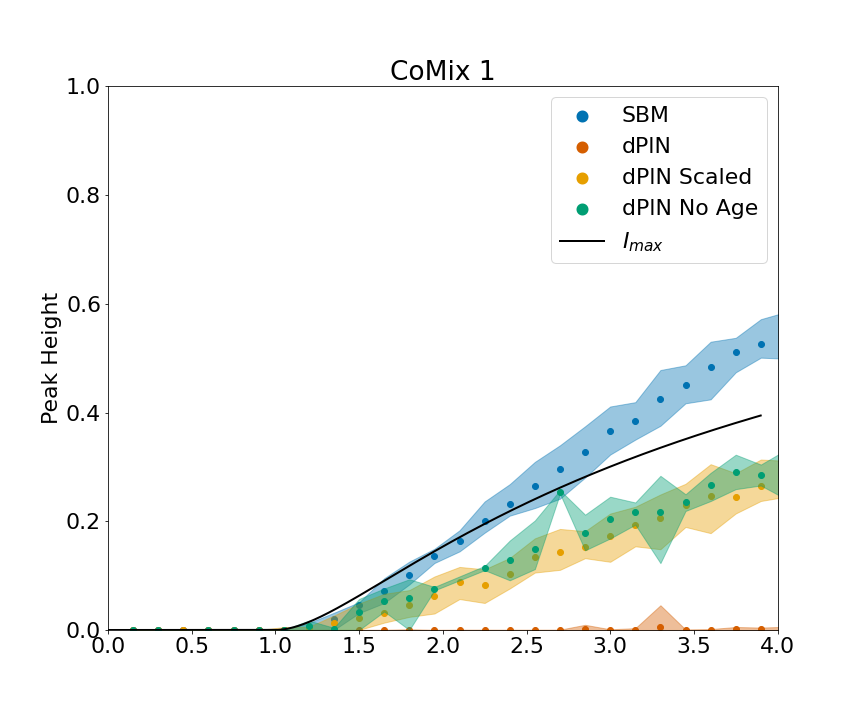
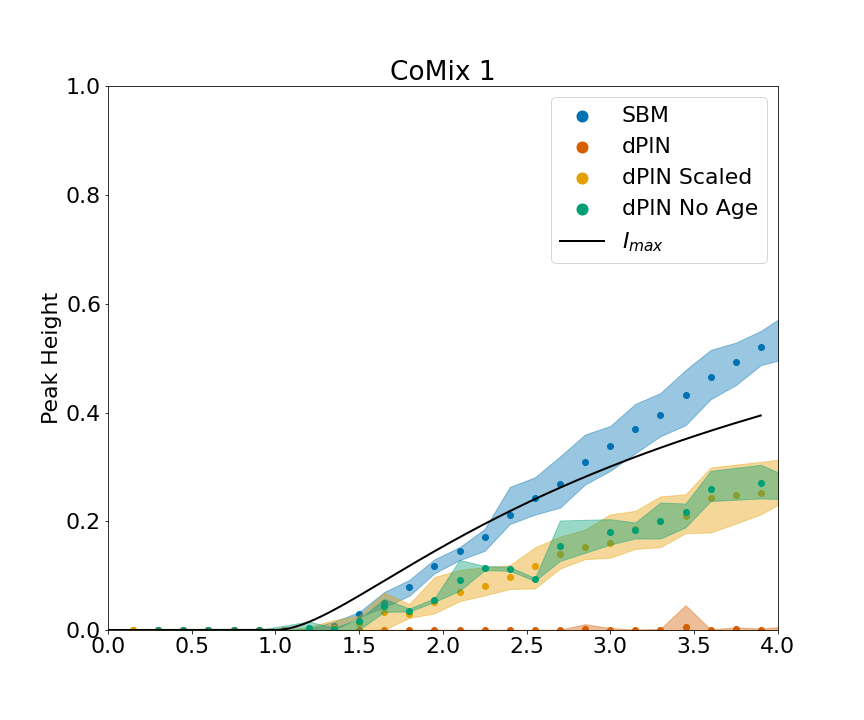
growth rates 0 with bounds

Changed region(s): [[0.3125, 0.4278, 0.9062, 0.8861], [0.7188, 0.825, 0.8125, 0.8861]]

diff --git a/growth_rate_fig.py b/growth_rate_fig.py
@@ -30,7 +30,7 @@ top, step = 5, 0.1
 bins = np.arange(step, top + step, step)
 bin_centers = np.array([a/2 if i == 0 else a - (a - bins[i-1])/2 for i,a in enumerate(bins)])
 digit = [a for a in bins]; digit.append(1e6)
-t_0 = 3
+t_0 = 0
 T_max = 14
 max_gr, max_gr1 = 0, 0
 for i, data in enumerate(datas):
@@ -136,7 +136,7 @@ for i, data in enumerate(datas):
             print(index)
             # print(ys)
             
-    np.savetxt(f'../output_data/simulations/big/sellke/growth_rate/figures/xs_{data}_{model}_t3.csv', xs)
-    np.savetxt(f'../output_data/simulations/big/sellke/growth_rate/figures/ys_{data}_{model}_t3.csv',ys)
-    np.savetxt(f'../output_data/simulations/big/sellke/growth_rate/figures/bot_{data}_{model}_t3.csv',bot)
-    np.savetxt(f'../output_data/simulations/big/sellke/growth_rate/figures/top_{data}_{model}_t3.csv',top)
+    np.savetxt(f'../output_data/simulations/big/sellke/growth_rate/figures/xs_{data}_{model}.csv', xs)
+    np.savetxt(f'../output_data/simulations/big/sellke/growth_rate/figures/ys_{data}_{model}.csv',ys)
+    np.savetxt(f'../output_data/simulations/big/sellke/growth_rate/figures/bot_{data}_{model}.csv',bot)
+    np.savetxt(f'../output_data/simulations/big/sellke/growth_rate/figures/top_{data}_{model}.csv',top)
